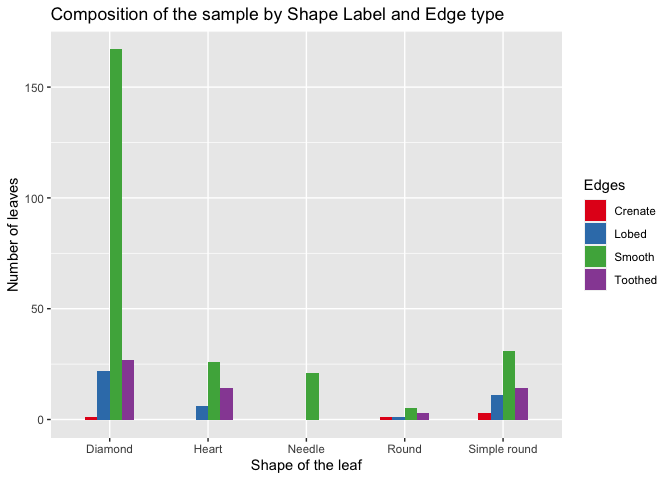
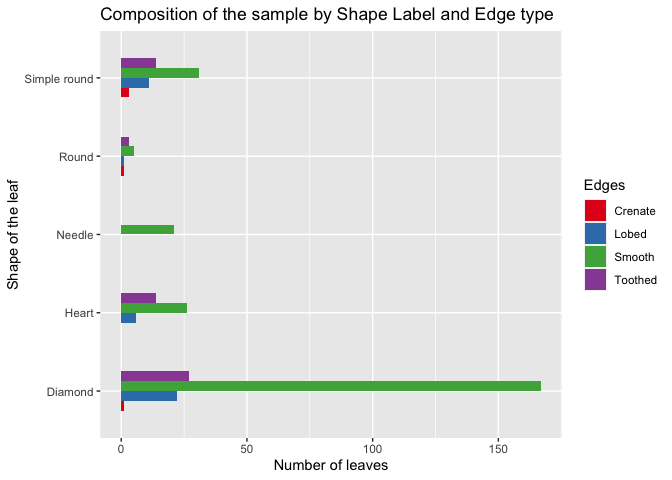
updated readme

diff --git a/README.md b/README.md
@@ -121,7 +121,7 @@ d29 <- as.data.frame(table(medlea$Shape,medlea$Edges))
 names(d29) <- c('Shape','Edges','No_of_leaves')
 
 
-ggplot(d29, aes(fill = Edges, x=Shape , y=No_of_leaves)) + labs(y="Number of leaves", x="Shape of the leaf") + geom_bar(stat = "identity", width = 0.5, position = position_dodge()) + ggtitle("Composition of the sample by Shape Label and Edge type") + scale_fill_brewer(palette = "Set1")
+ggplot(d29, aes(fill = Edges, x=Shape , y=No_of_leaves)) + labs(y="Number of leaves", x="Shape of the leaf") + geom_bar(stat = "identity", width = 0.5, position = position_dodge()) + ggtitle("Composition of the sample by Shape Label and Edge type") + scale_fill_brewer(palette = "Set1") + coord_flip()
 ```
 
 <img src="man/figures/README-example4-1.png" width="100%" />
